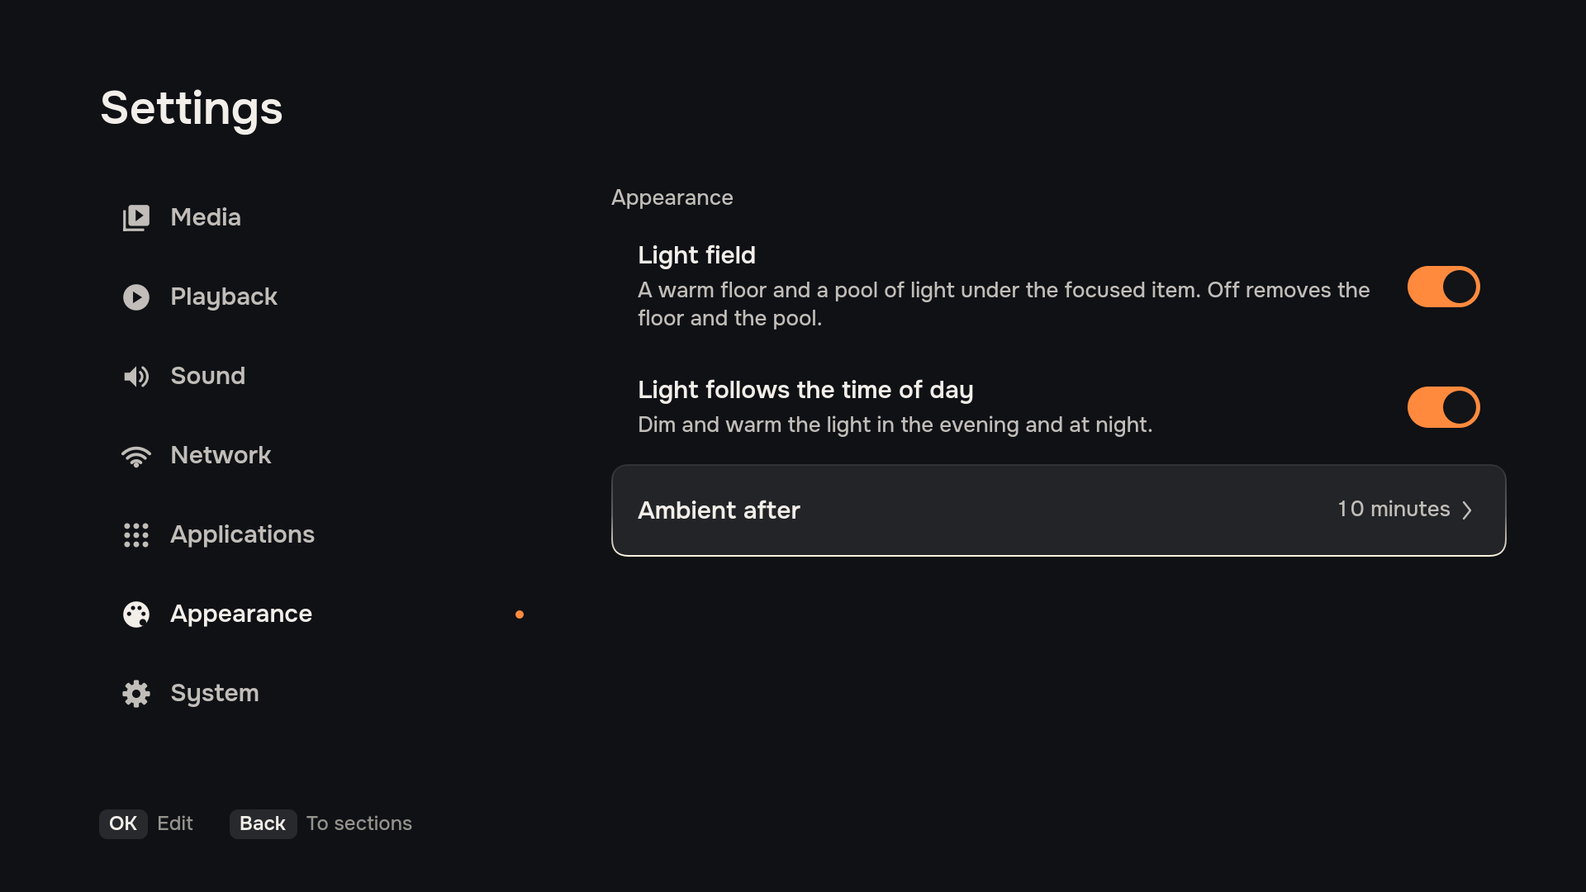
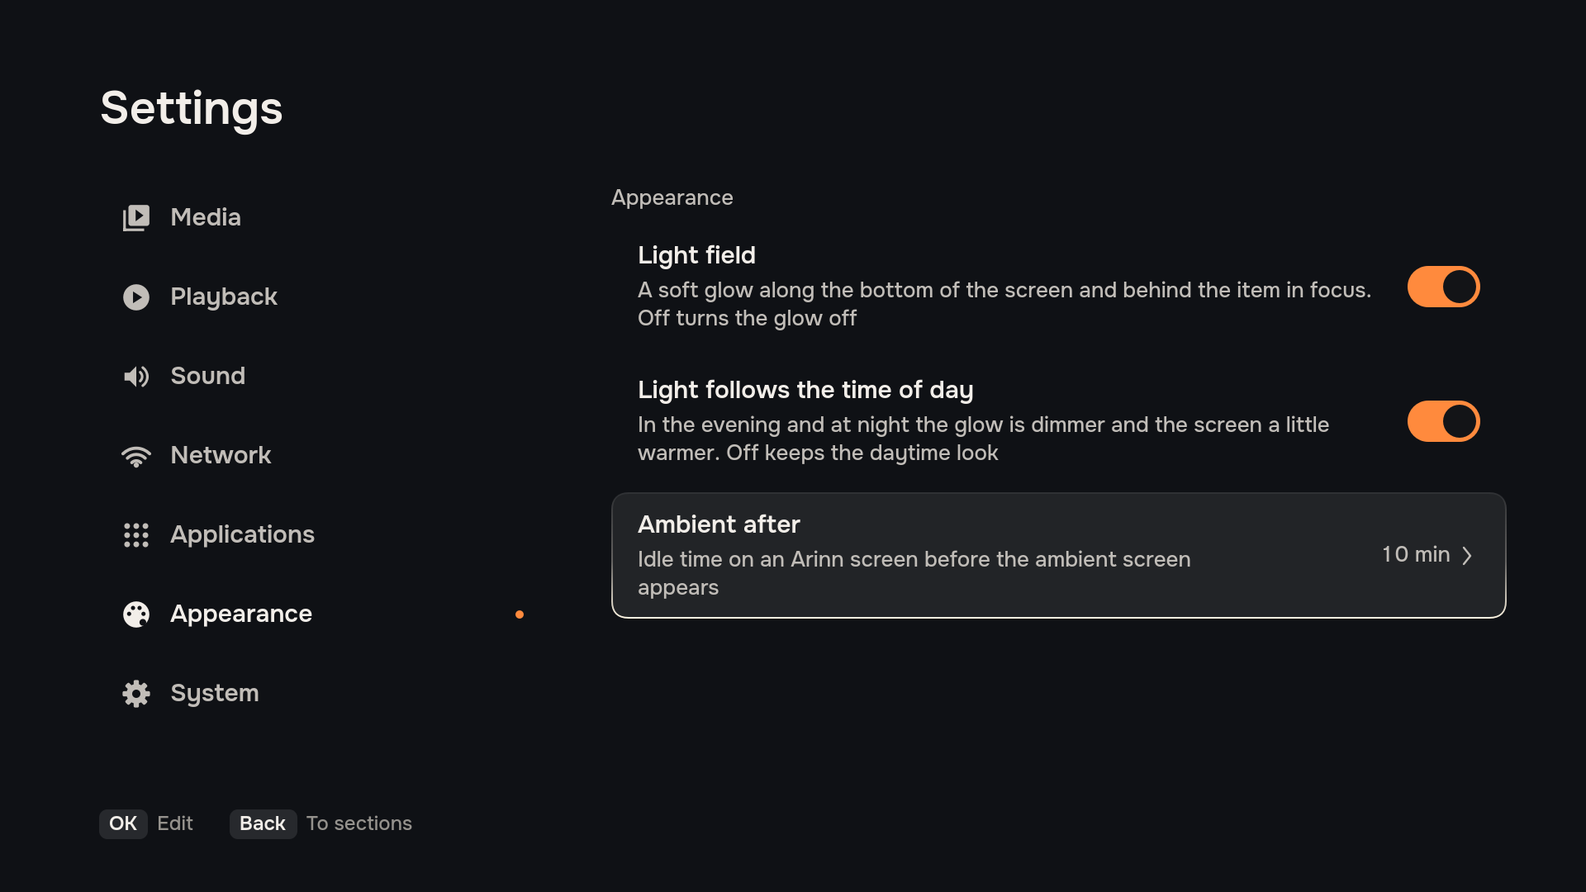
Align capture fixtures and remaining owner checks with current evidence
Remove unsupported typed-path claims from the graphical picker and the unsupported local Like control. Match current Appearance copy. Record the owner's successful TV music playback and consolidate remaining operator checks. Refs #866.

diff --git a/docs/user/index.html b/docs/user/index.html
@@ -131,7 +131,7 @@ arinnctl shortcuts add "Example service" https://example.org/</code></pre>
     <section id="library" aria-labelledby="library-title">
       <p class="eyebrow">07 / WATCH</p><h2 id="library-title">Library &amp; playback</h2>
       <p>The local library scans folders you configure, including network folders already mounted by your operating system. Arinn does not mount SMB or NFS shares for you.</p>
-      <ol><li>Install the optional player and media tools: <code>sudo pacman -S --needed mpv ffmpeg</code>.</li><li>Open <strong>Settings → Media → Library folders</strong>, choose <strong>Add folder</strong>, and browse places and subfolders. Select <strong>Choose this folder</strong> to add the displayed folder; the path field also accepts typed paths.</li><li>Open <strong>Library</strong>, choose a film or series, and select its playback action.</li></ol>
+      <ol><li>Install the optional player and media tools: <code>sudo pacman -S --needed mpv ffmpeg</code>.</li><li>Open <strong>Settings → Media → Library folders</strong>, choose <strong>Add folder</strong>, and browse places and subfolders. Select <strong>Choose this folder</strong> to add the displayed folder.</li><li>Open <strong>Library</strong>, choose a film or series, and select its playback action.</li></ol>
       <p>A missing provider leaves its controls unavailable. A scan can take time; the existing catalogue remains visible while it runs. Removing a library folder does not delete your media files. If a network mount goes away, restore the mount before treating content as missing.</p>
       <h3>Return to what you were watching</h3><p>Continue on Home brings together current activities and resumable media. The library stores playback progress. During managed playback, the shell supplies controls above the external mpv window. Audio tracks, subtitles and seeking depend on the data and actions the provider reports.</p>
       <p>Global Home keeps playback running so you can return to it. Back first hides the player controls; leaving playback is a separate action. Do not assume an ordinary external player has all the managed mpv controls.</p>
@@ -155,7 +155,7 @@ arinnctl shortcuts add "Example service" https://example.org/</code></pre>
     <section id="settings" aria-labelledby="settings-title">
       <p class="eyebrow">10 / PREFERENCES</p><h2 id="settings-title">Settings &amp; privacy</h2>
       <p>Settings shows the controls provided by connected integrations. Select a row to change a toggle, choose an option, edit text or adjust a number. Disabled controls remain visible; empty categories mean no integration currently supplies settings there.</p>
-      <p>A value marked for the next start applies when its provider restarts. Text and folder paths can be typed with the on-screen keyboard. Library folders open a dedicated list with a graphical folder picker and removal confirmation. Appearance offers the light field, time-of-day lighting and ambient timeout; Sound offers interface-sound levels. The current prototype uses one shared household space: there are no separate user profiles or accounts.</p>
+      <p>A value marked for the next start applies when its provider restarts. Text and supported single-path settings can be edited with the on-screen keyboard. The graphical library picker displays the current path; typing a path inside that picker is not implemented. Library folders open a dedicated list with a graphical folder picker and removal confirmation. Appearance offers the light field, time-of-day lighting and ambient timeout; Sound offers interface-sound levels. The current prototype uses one shared household space: there are no separate user profiles or accounts.</p>
       <h3>Configuration and saved state</h3><p>Daemon configuration lives under <code>$XDG_CONFIG_HOME/arinn</code>, normally <code>~/.config/arinn</code>. Providers own their media and resume state. Keep backups before manually editing configuration; changing a library folder does not remove its files.</p>
       <h3>Optional diagnostics</h3><p>Sentry diagnostics are disabled by default. You do not need to enable them to use Arinn. The current development opt-in has no consent dialog; public-release consent and privacy work remain pending. The owner-confirmed retention requirement is 90 days; this notice does not imply that consent controls have been implemented. Diagnostic categories and limitations are listed in the <a href="https://github.com/LimeBeck/arinn/blob/master/docs/architecture/telemetry.md">telemetry guide</a>.</p>
       <p>To keep diagnostics disabled, use the following in <code>~/.config/arinn/telemetry.toml</code>, or under your configured XDG directory:</p>

diff --git a/docs/site/index.html b/docs/site/index.html
@@ -55,7 +55,7 @@
         <figure class="screenshot-card"><a href="assets/screenshots/home.png" data-screenshot data-title="Home" data-caption="Continue cards, fictional favorite tiles and visible remote-control focus."><img src="assets/screenshots/home.png" alt="Arinn Home with fictional Continue cards and favorite tiles" width="1920" height="1080" loading="lazy"><span class="enlarge" aria-hidden="true">↗</span></a><figcaption><div><span class="screen-number">01</span><h3>Home</h3></div><p>Your starting point. Your way back.</p></figcaption></figure>
         <figure class="screenshot-card"><a href="assets/screenshots/open-services.png" data-screenshot data-title="Open services" data-caption="Fictional browser services with on-screen and sound marks, bookmark and close controls, and the Site or search button."><img src="assets/screenshots/open-services.png" alt="Arinn Open services with fictional services and bookmark controls" width="1920" height="1080" loading="lazy"><span class="enlarge" aria-hidden="true">↗</span></a><figcaption><div><span class="screen-number">02</span><h3>Open services</h3></div><p>Your open pages, within reach.</p></figcaption></figure>
         <figure class="screenshot-card"><a href="assets/screenshots/settings.png" data-screenshot data-title="Settings" data-caption="Appearance controls for the light field, time-of-day lighting and ambient timeout."><img src="assets/screenshots/settings.png" alt="Arinn Appearance settings with light field, time-of-day lighting and ambient timeout" width="1920" height="1080" loading="lazy"><span class="enlarge" aria-hidden="true">↗</span></a><figcaption><div><span class="screen-number">03</span><h3>Settings</h3></div><p>Make room for your preferences.</p></figcaption></figure>
-        <figure class="screenshot-card"><a href="assets/screenshots/library-folders.png" data-screenshot data-title="Library folders" data-caption="The graphical folder picker with fictional places and subfolders, a path field and a current-folder selection button."><img src="assets/screenshots/library-folders.png" alt="Arinn graphical folder picker with fictional places and subfolders" width="1920" height="1080" loading="lazy"><span class="enlarge" aria-hidden="true">↗</span></a><figcaption><div><span class="screen-number">04</span><h3>Library folders</h3></div><p>Keep your library connected.</p></figcaption></figure>
+        <figure class="screenshot-card"><a href="assets/screenshots/library-folders.png" data-screenshot data-title="Library folders" data-caption="The graphical folder picker with fictional places and subfolders, the displayed path and a current-folder selection button."><img src="assets/screenshots/library-folders.png" alt="Arinn graphical folder picker with fictional places and subfolders" width="1920" height="1080" loading="lazy"><span class="enlarge" aria-hidden="true">↗</span></a><figcaption><div><span class="screen-number">04</span><h3>Library folders</h3></div><p>Keep your library connected.</p></figcaption></figure>
         <figure class="screenshot-card"><a href="assets/screenshots/music.png" data-screenshot data-title="Music" data-caption="The shared music room with fictional stations and albums from two sources."><img src="assets/screenshots/music.png" alt="Arinn Music room with fictional stations and albums" width="1920" height="1080" loading="lazy"><span class="enlarge" aria-hidden="true">↗</span></a><figcaption><div><span class="screen-number">05</span><h3>Music</h3></div><p>A room for your music.</p></figcaption></figure>
         <figure class="screenshot-card"><a href="assets/screenshots/now-playing.png" data-screenshot data-title="Now playing" data-caption="Fictional track artwork and metadata with the playback controls offered by the source."><img src="assets/screenshots/now-playing.png" alt="Arinn Now playing with fictional artwork, track information and transport controls" width="1920" height="1080" loading="lazy"><span class="enlarge" aria-hidden="true">↗</span></a><figcaption><div><span class="screen-number">06</span><h3>Now playing</h3></div><p>Settle into the next track.</p></figcaption></figure>
       </div>

diff --git a/tests/ui/visual/capture.qml b/tests/ui/visual/capture.qml
@@ -720,15 +720,16 @@ TestCase {
             return settingsScene(null, view => settingsRow(view, "arinn-ambient_timeout"), {
                 rows: [
                     {id: "light_field", providerId: "arinn", providerName: "", categoryId: "appearance", title: "Light field",
-                     description: "A warm floor and a pool of light under the focused item. Off removes the floor and the pool.",
+                     description: "A soft glow along the bottom of the screen and behind the item in focus. Off turns the glow off",
                      type: "boolean", currentValue: true, constraints: {}, enabled: true},
                     {id: "light_follows_time", providerId: "arinn", providerName: "", categoryId: "appearance", title: "Light follows the time of day",
-                     description: "Dim and warm the light in the evening and at night.",
+                     description: "In the evening and at night the glow is dimmer and the screen a little warmer. Off keeps the daytime look",
                      type: "boolean", currentValue: true, constraints: {}, enabled: true},
                     {id: "ambient_timeout", providerId: "arinn", providerName: "", categoryId: "appearance", title: "Ambient after",
+                     description: "Idle time on an Arinn screen before the ambient screen appears",
                      type: "enum", currentValue: "10", constraints: {options: [
-                         {value: "5", title: "5 minutes"}, {value: "10", title: "10 minutes"},
-                         {value: "15", title: "15 minutes"}, {value: "30", title: "30 minutes"}, {value: "60", title: "60 minutes"}
+                         {value: "5", title: "5 min"}, {value: "10", title: "10 min"},
+                         {value: "15", title: "15 min"}, {value: "30", title: "30 min"}, {value: "60", title: "60 min"}
                      ]}, enabled: true}
                 ]
             });

diff --git a/tests/ui/visual/ShowcaseMusic.qml b/tests/ui/visual/ShowcaseMusic.qml
@@ -23,8 +23,8 @@ Item {
         property var activeState: ({session: "fixture-session", playback: "playing", continuous: true,
             station: {id: "station:library", kind: "station", title: "From this library", pinnable: true},
             current: {occurrence: "1", track: {id: "track:low-tide", kind: "track", title: "Low tide",
-                artist: "Mira Vale", album: "Small hours", image: root.artwork, duration_us: 245000000, liked: true}},
-            position_us: 82000000, actions: ["pause", "previous", "next", "seek", "stop", "like"], upcoming: []})
+                artist: "Mira Vale", album: "Small hours", image: root.artwork, duration_us: 245000000}},
+            position_us: 82000000, actions: ["pause", "previous", "next", "seek", "stop"], upcoming: []})
         property string activeSourceName: "Local music"
         property string activeSourceId: "music-local"
         property string errorText: ""

diff --git a/docs/architecture/issue-status-audit-2026-11-07.md b/docs/architecture/issue-status-audit-2026-11-07.md
@@ -15,7 +15,8 @@ roadmap gates, issue reproductions or newer agent claims.
 - GitHub repository metadata reports public visibility. Recent snapshot assets omit `.deb`; the tagged `v0.2.0` release contains it.
 - During the audit, #862 merged as `602a1fe` and was integrated into the documentation branch. New PRs #867 (source-off follow-up) and #868 (daemon text routing, #859) opened. The rows retain the initial snapshot for reproducibility.
 - Active PRs and comments are time-sensitive: the references below describe the snapshot, not a perpetual status feed.
-- No real desktop, TV, remote, account or listening test was run. No phase/gate was marked passed, owner decision inferred, release published or active development claim taken over.
+- Owner evidence added during the audit: on 2026-11-07 the owner confirmed successful music listening on the TV. The source/account/build was not stated; preserve the successful use without extending it to all providers or edge cases. Music parent issues #677/#707 and interface-sound task #727 record this distinction.
+- No agent-run real desktop, TV, remote, account or listening test was run. No phase/gate was marked passed, owner decision inferred, release published or active development claim taken over.
 
 Two completed implementation increments are closed (#719 contract/SDK, #723 light).
 The 23 other stale issue bodies get a dated status section; the original request
@@ -84,6 +85,34 @@ Owner decisions and real-device qualification remain open even when code is merg
 | [#857](https://github.com/LimeBeck/arinn/issues/857) | retain open | Open implementation follow-up. No merged fix or acceptance evidence was found in the audited default branch; preserve the original reproduction and scope. |
 | [#858](https://github.com/LimeBeck/arinn/issues/858) | retain open | Open implementation follow-up. No merged fix or acceptance evidence was found in the audited default branch; preserve the original reproduction and scope. |
 | [#859](https://github.com/LimeBeck/arinn/issues/859) | retain open | Daemon Texts1 routing is claimed on `codex/859-texts-routing`. Contract #853 is merged; daemon integration is still pending. Preserve the active claim. |
+
+## Owner checks still recorded as pending
+
+Successful music listening on the TV is already confirmed; do not request that
+basic check again. These are the narrower remaining checks, consolidated from
+the issues and roadmap. A passing code test is separate from these observations.
+
+| Check | Remaining observation | Tracker |
+| --- | --- | --- |
+| TV design and remote navigation | Read titles/actions/focus at 3 m; revisit the corrected screens against the current brief | #756, AC-02/AC-14, G-5.1 |
+| Music card refresh | Home updates from track A to B after natural advance and explicit Next; preserve focus | #834 |
+| Interface sounds | Quiet/Normal levels, system mute and normal feedback suppressed over music/video; late-audio restart status | #727 |
+| Power and recovery | Suspend/wake, lock-screen safety, Ambient and provider reconnect; one physical power-key press produces one action | #148, #519 |
+| Dedicated-session round trip | Log in to Arinn → Switch to desktop → Return to Arinn, including confirmation/cancellation | #438, G-5.8 |
+| Quick menu and text input | Menu/Back over real apps/video; OSK with the remote in every text flow and global keyboard input in managed Chrome | #507, G-5.6/G-5.7/G-5.9 |
+| Managed video | Play/pause/seek, audio/subtitles, resume and Home/Return on the TV | AC-16, G-4.1 |
+| Downloads controls | Pause/resume/start now/retry and error/service-unavailable states; queue visibility and Watch already have owner evidence | AC-17 |
+| Device measurements | Quantitative Activity background lifecycle/performance report; retain the earlier qualitative item-7 pass | #149, G-5.2/G-5.4 |
+| Additional platform matrix | XFCE/X11 acceptance; special power cases such as another graphical session and late power-manager startup | #186, #519, G-5.5 |
+| Native diagnostics qualification | Matching a real allowlisted event to the exact installed package's uploaded symbols, with existing consent boundaries | #370 |
+
+The music-key fix #831 / PR #864 still needs to land before asking for its
+post-fix TV check. A live Yandex-specific flow is not inferred from unspecified
+music playback. Do not request the package installation/upgrade/uninstall checks
+again: the owner explicitly accepted/deferred that checklist item in #74.
+Debian snapshot installation awaits the missing asset under #692. Future
+Android/post-MVP work and unresolved product decisions are not ready-to-run TV
+checks. No operator action is authorized by this list itself.
 
 ## Follow-up use
 

diff --git a/README.ru.md b/README.ru.md
@@ -28,7 +28,7 @@ Arinn (древнескандинавское «очаг») объединяет
 - **Медиатека и воспроизведение.** Сканирование локальных и уже смонтированных папок, фильмы и сериалы, воспроизведение через mpv. Панель плеера предлагает перемотку, выбор звука/субтитров и управление воспроизведением, когда провайдер поддерживает эти действия.
 - **Музыка.** Общая музыкальная комната, полки источников, поиск и экран Now playing. Реализованы провайдеры локальной музыки и Яндекс Музыки; совместимость аккаунтов, потоков и аудиоустройств ещё проверяется. Остальные запланированные сервисы не реализованы. См. [настройку и ограничения](docs/architecture/music-backends.md).
 - **Загрузки.** Подключённая очередь Transmission, управление заданиями и переход к импортированному медиа в библиотеке. Сам Transmission нужно установить и настроить отдельно.
-- **Настройки.** Параметры провайдеров и списки папок медиатеки. Графический выбор папки показывает места и вложенные каталоги; путь можно ввести экранной клавиатурой. В оформлении доступны световой фон Hearth, освещение по времени суток и время до заставки.
+- **Настройки.** Параметры провайдеров и списки папок медиатеки. Графический выбор папки показывает места и вложенные каталоги. Для текста и поддерживаемых одиночных путей в настройках есть экранная клавиатура. В оформлении доступны световой фон Hearth, освещение по времени суток и время до заставки.
 - **Управление поверх приложения.** Глобальный Home, быстрое меню и экранная клавиатура вызываются настраиваемыми сочетаниями. Действия питания зависят от рабочего окружения, сессии и доступных возможностей.
 
 У Arinn общее домашнее пространство без собственных аккаунтов и профилей. Оболочкой управляют пульт со стандартными клавишами, клавиатура или аэромышь; управление внутри внешнего приложения зависит от самого приложения.
@@ -64,7 +64,7 @@ Arinn (древнескандинавское «очаг») объединяет
 <details>
 <summary>Папки медиатеки</summary>
 
-Графический выбор папки: вымышленные места и вложенные каталоги, поле пути и кнопка выбора текущей папки.
+Графический выбор папки: вымышленные места и вложенные каталоги, текущий путь и кнопка выбора текущей папки.
 
 ![Графический выбор папки Arinn с вымышленными местами и каталогами](docs/design/showcase/library-folders.png)
 

diff --git a/README.md b/README.md
@@ -40,7 +40,7 @@ Current source builds include:
 - **Local library and playback.** Scan local or already mounted folders, browse films and series, and play with mpv. The playback overlay offers seeking, audio/subtitle selection and transport controls when the provider supports them.
 - **Music.** Browse a shared music room, source shelves and search, then open Now playing. Local music and Yandex Music providers are implemented; account, stream and audio-device compatibility still need qualification. Other planned music services are not implemented. See the [music setup and limits](docs/architecture/music-backends.md).
 - **Downloads.** View a connected Transmission queue, control jobs and open imported media in the library. Transmission must be installed and configured separately.
-- **Settings.** Edit provider settings and library folder lists. The graphical folder picker offers places and subfolders, with typed paths and the on-screen keyboard when needed. Appearance controls include the Hearth light field, time-of-day lighting and ambient timeout.
+- **Settings.** Edit provider settings and library folder lists. The graphical folder picker offers places and subfolders. Text and supported single-path settings have on-screen keyboard editors. Appearance controls include the Hearth light field, time-of-day lighting and ambient timeout.
 - **Controls over an app.** Global Home, the quick menu and the on-screen keyboard are available through configurable shortcuts. Power actions depend on the desktop/session and the capabilities it reports.
 
 Arinn uses one shared household space, with no Arinn accounts or profiles. Keyboard-compatible remotes, a keyboard and an air mouse can navigate the shell; controls inside external applications remain those applications' responsibility.
@@ -76,7 +76,7 @@ Appearance settings for the light field, time-of-day lighting and ambient timeou
 <details>
 <summary>Library folders</summary>
 
-The graphical folder picker, with fictional places and subfolders, a path field and an action to select the current folder.
+The graphical folder picker, with fictional places and subfolders, the current path and an action to select the current folder.
 
 ![Arinn graphical folder picker with fictional places and subfolders](docs/design/showcase/library-folders.png)
 
